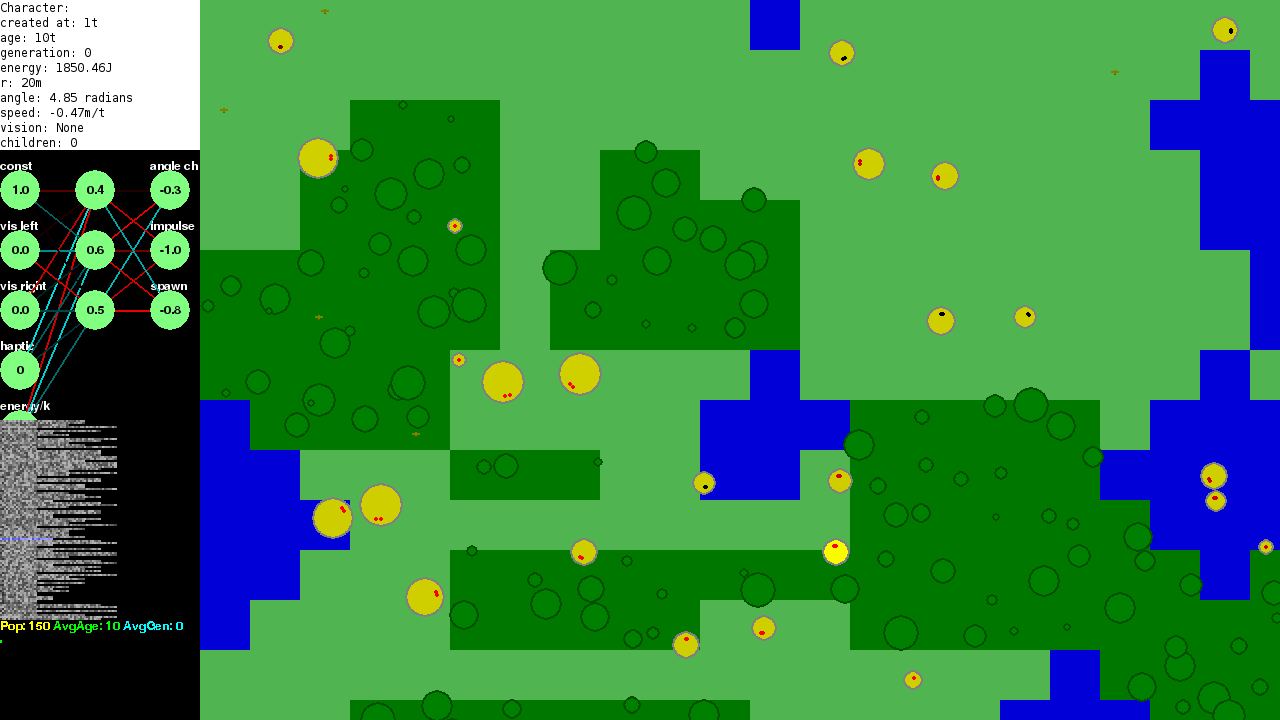
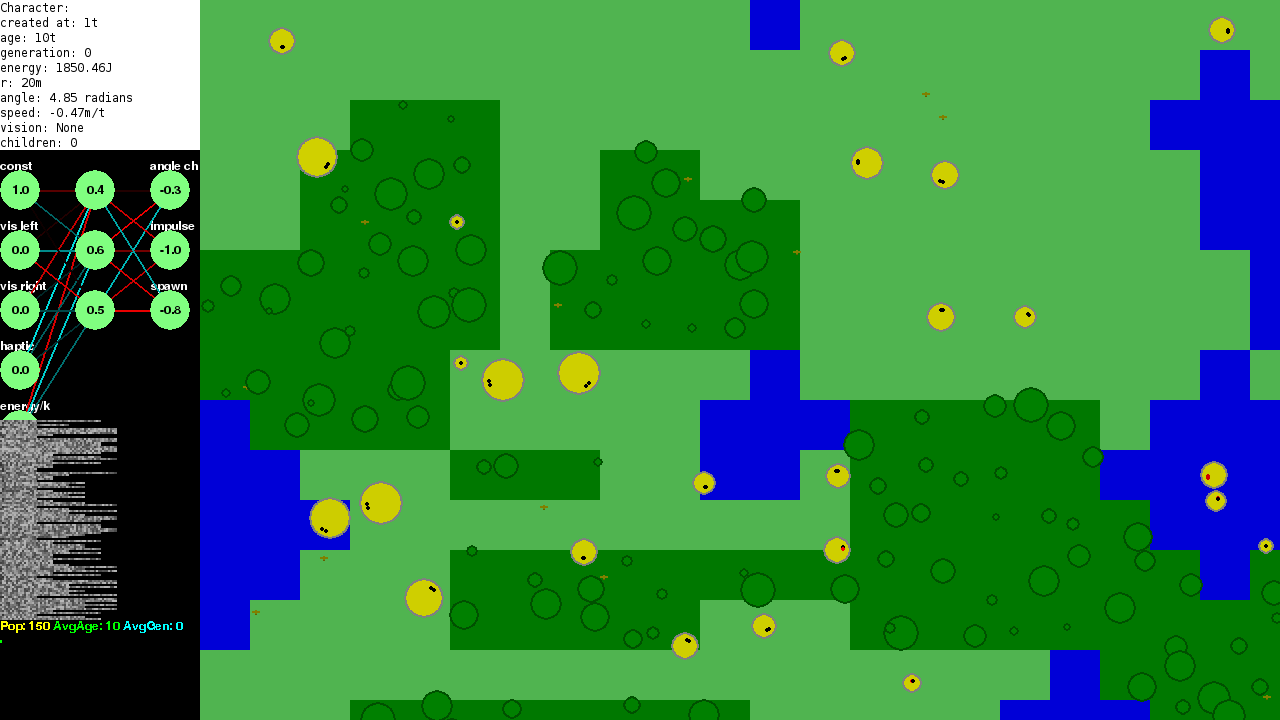
Numerous changes (sorry!) mostly regarding making Neuron, Brain and Character all extension types, and fiddling with collision handling

diff --git a/novel-evolve/popview.py b/novel-evolve/popview.py
@@ -6,6 +6,7 @@ from pygame.locals import *
 
 import viewport
 import characters
+import neuron
 
 class GenePopView(viewport.Viewport):
 
@@ -50,7 +51,7 @@ class GenePopView(viewport.Viewport):
             for i in range(g.hidden_neurons):
                 for j in range(g._inputs):
                     weight = g.hidden0_weights[i * g._inputs + j]             
-                    colour = int(characters.sigmoid(weight) * 255)
+                    colour = int(neuron.sigmoid(weight) * 255)
                     start = (xoff, off)
                     xoff += xwidth
                     end = (xoff, off)
@@ -59,7 +60,7 @@ class GenePopView(viewport.Viewport):
                         start, end, ywidth)
                 for j in range(g._outputs):
                     weight = g.hidden0_weights[i * g._outputs + j]             
-                    colour = int(characters.sigmoid(weight) * 255)
+                    colour = int(neuron.sigmoid(weight) * 255)
                     start = (xoff, off)
                     xoff += xwidth
                     end = (xoff, off)

diff --git a/novel-evolve/__main__.py b/novel-evolve/__main__.py
@@ -7,7 +7,7 @@ import json
 import argparse
 
 import random
-random.seed(100)
+random.seed(101)
 
 import pygame
 from pygame.locals import *
